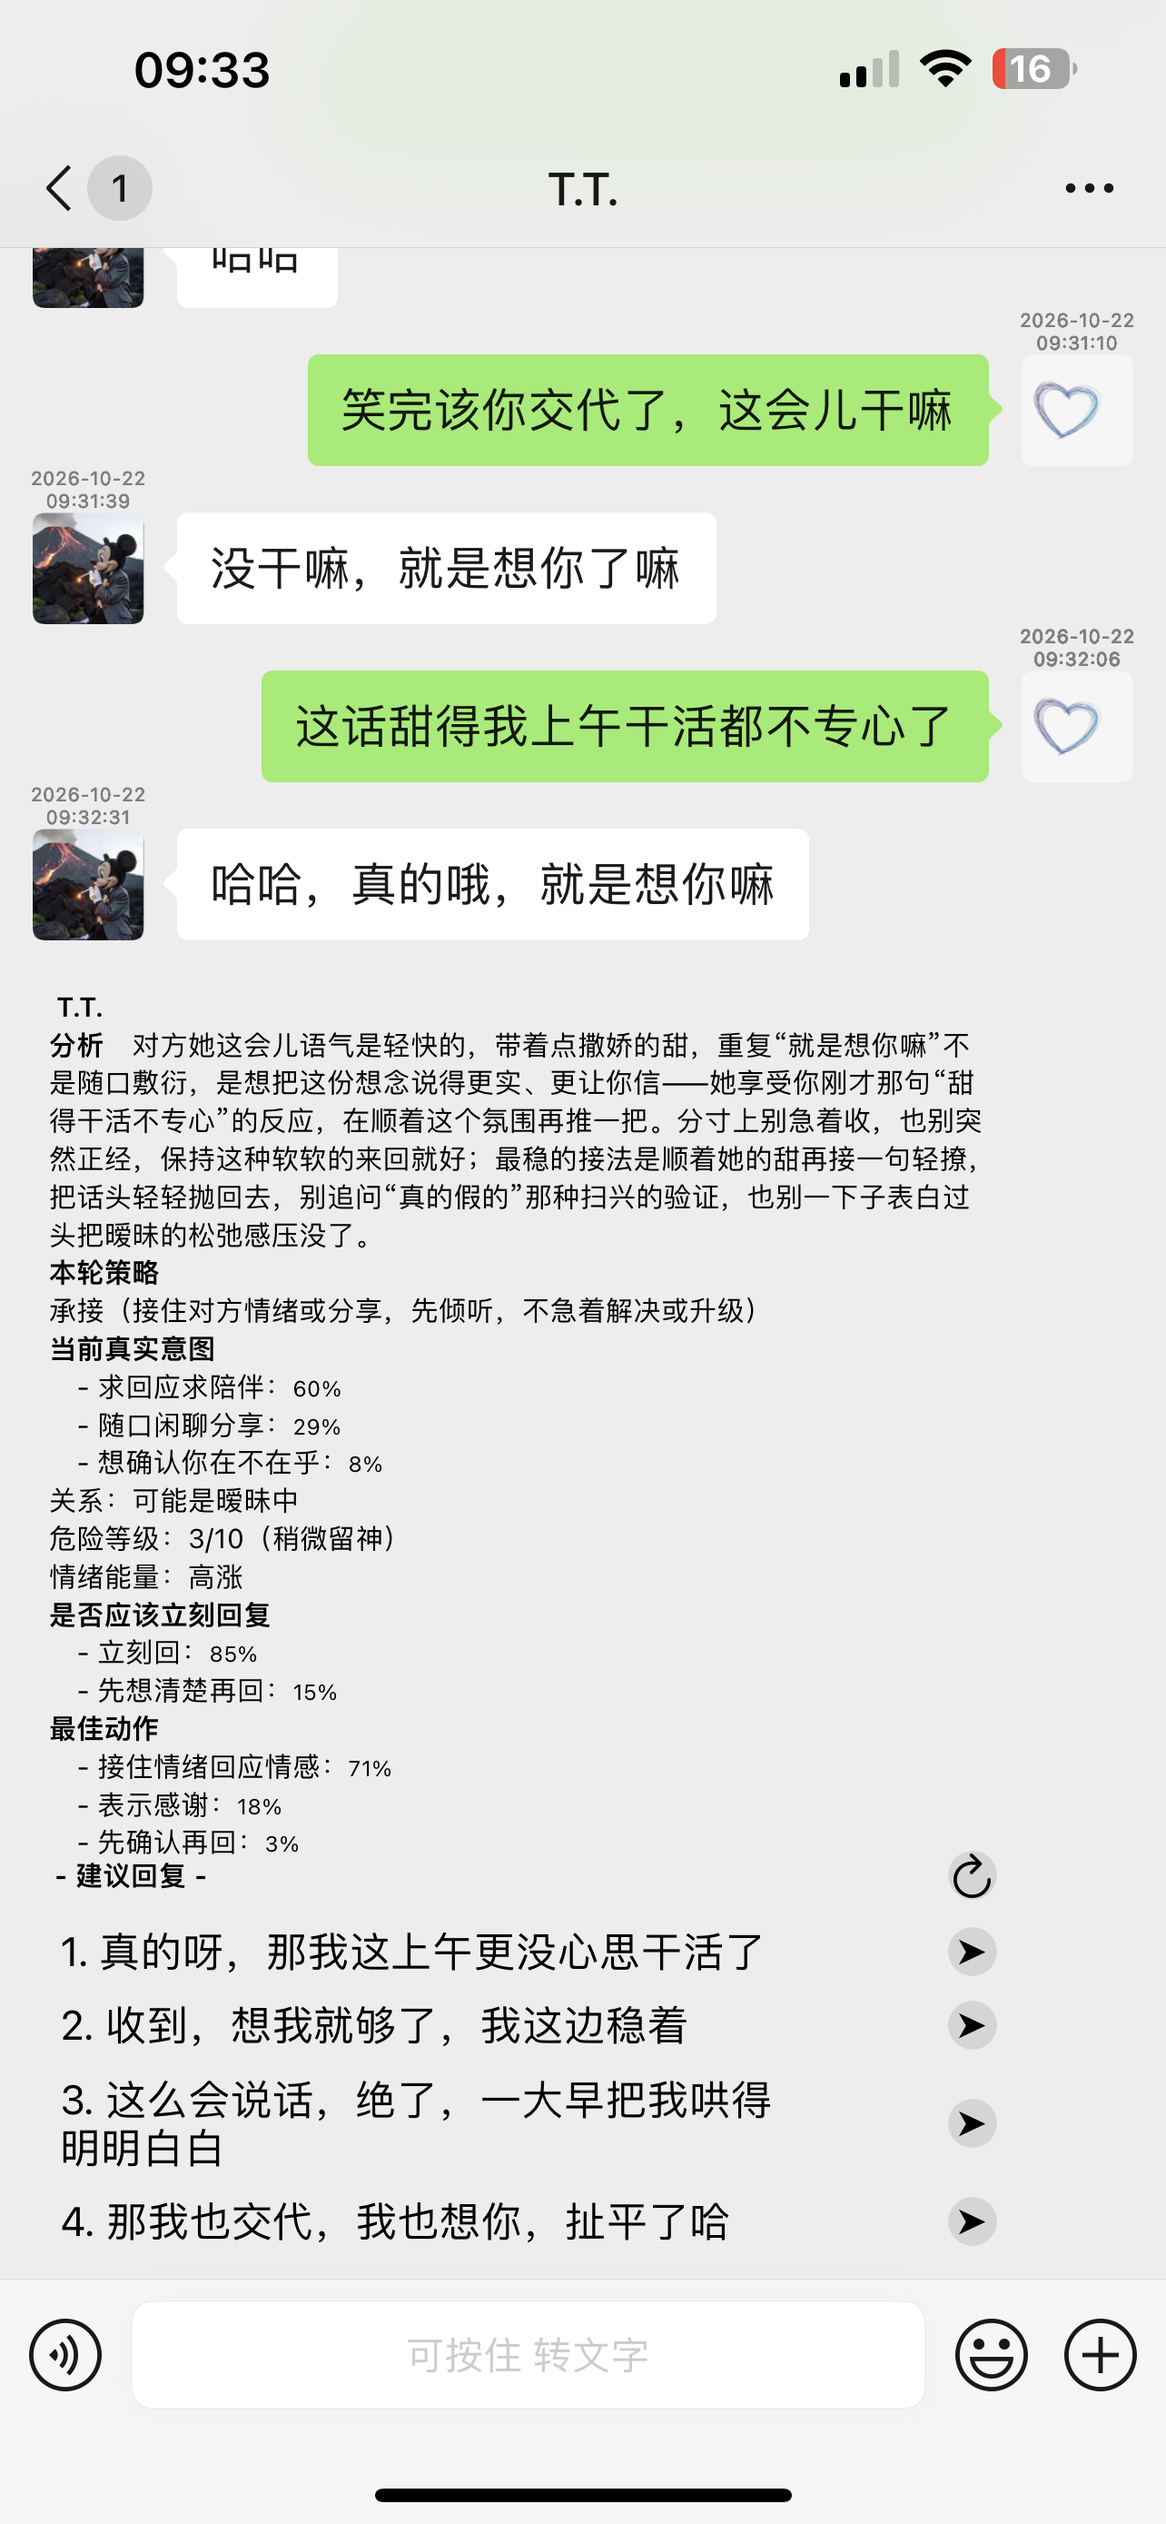
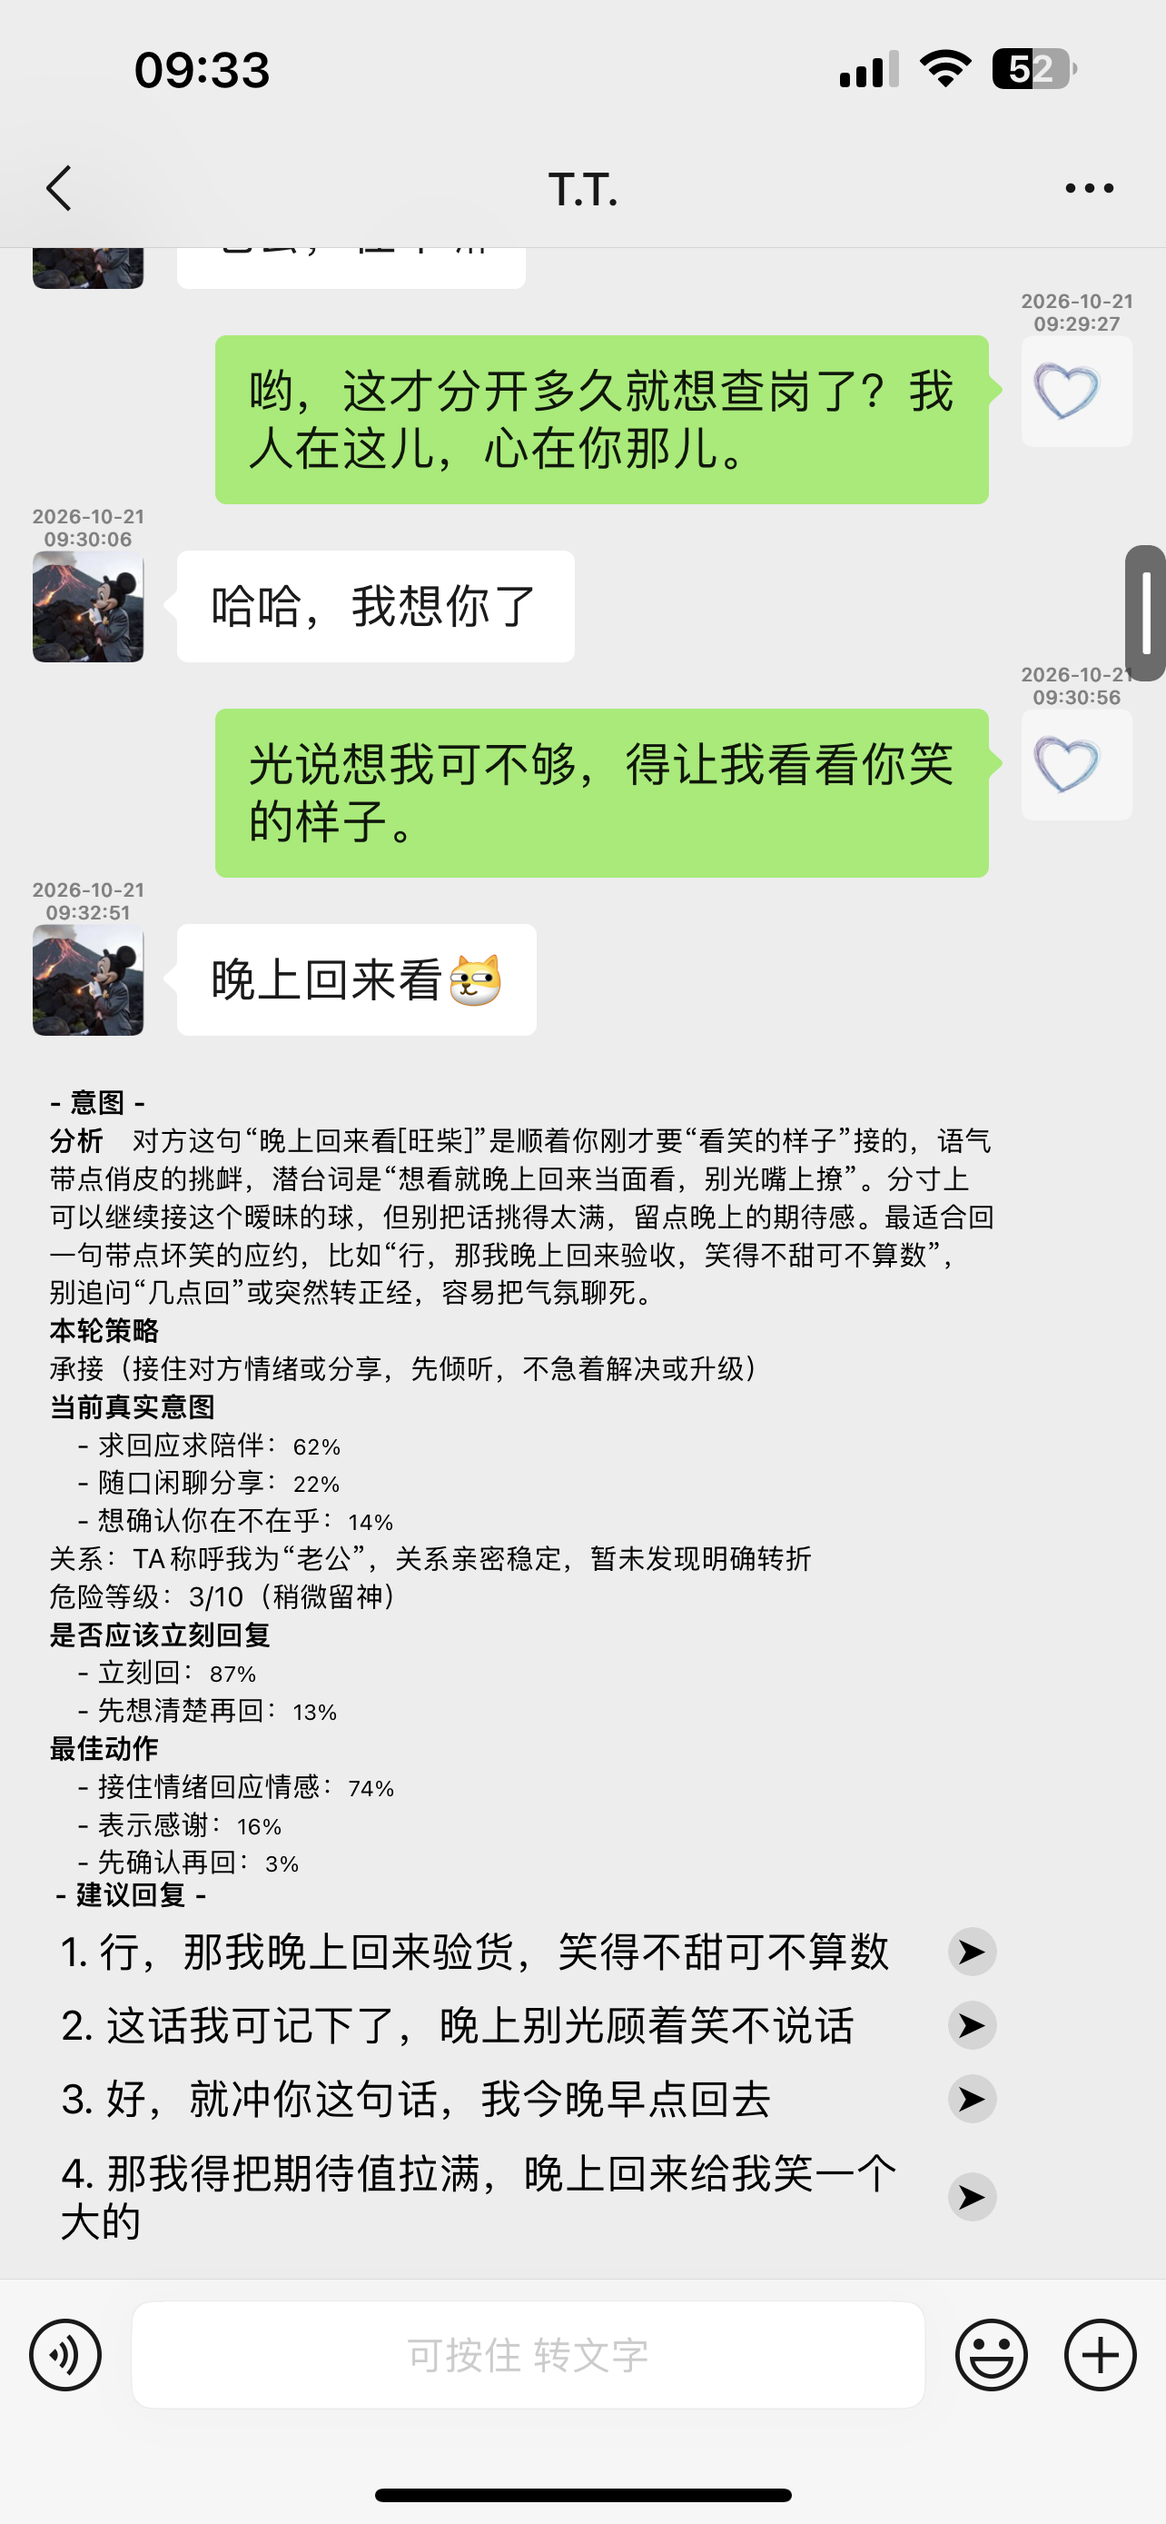
：）

diff --git a/Docs/使用说明.md b/Docs/使用说明.md
@@ -1,0 +1,142 @@
+# Jev-Chat 使用与配置说明
+
+> 一份看懂怎么填、怎么用的操作手册。功能介绍见仓库根目录 [README](../README.md)。
+
+---
+
+## 一、快速上手（三步开始）
+
+1. **装好插件**（deb 装完重启微信），打开入口：**微信 → 我 → 设置 → Jev Chat**（或在系统设置/插件入口打开，取决于「插件入口位置」）。
+2. **填 API**：进「意图判断」和「建议回复」两组，按下面第二、三节填好预设/地址、Key、模型。
+3. **找人发条消息**：对方消息下方会自动出现分析卡片和 4 条建议回复，点 ➤ 直接发送。
+
+---
+
+## 二、意图判断（判断层）怎么填
+
+设置路径：**Jev Chat → 意图判断**（配置项始终显示；「显示分析卡片」开关只控制卡片显隐，不影响下面的配置）。
+
+| 设置项 | 怎么填 |
+| --- | --- |
+| **显示分析卡片** | 只控制卡片显隐：关了卡片不出分析块，但**判断仍在后台跑**（生成层的约束、自动回复的收线保护都要用）；判断层和生成层**都关**才完全不处理。**没配判断层 Key 时走本地规则兜底**（含收线判别），判断层零消耗 |
+| **关联上下文** | 把最近 N 条消息一起给模型参考，建议 **5～10 条**；选「不关联」只看当前这条 |
+| **服务预设** | 三选一：**博查 / 阿里百炼 / 自定义**，见下表 |
+| **服务地址** | 选了博查/百炼会自动填好并**锁定**；只有「自定义」能手动输入 |
+| **Key密钥** | 对应平台的 API Key（`sk-` 开头），**预设锁定状态下也照常可填可改** |
+| **模型** | 同服务地址：预设自动填并锁定，自定义可手填 |
+
+### 服务预设怎么选
+
+| 预设 | 自动填入的地址 | 自动填入的模型 | 你还需要做 |
+| --- | --- | --- | --- |
+| **博查** | `https://jev.bocha.cn/v1/systemone` | `bocha-jev-v1` | 只填 Key |
+| **阿里百炼** | `https://llm-tg7bn69qnisd67ok.cn-beijing.maas.aliyuncs.com/compatible-mode/v1/systemone` | `decision-model-preview` | 只填 Key |
+| **自定义** | 保留当前值，可手动修改 | 同左 | 地址、模型、Key 全部手填 |
+
+- 预设选中后，点「服务地址 / 模型」会提示**预设已锁定**，防止误改；切回「自定义」即可解锁编辑（值保留，改哪个动哪个）。
+- 两个预设都是 SystemOne 专用判断接口，插件自动走对应协议，其他都不用动。
+- 自定义地址的规则：地址里含 `systemone` 走专用判断接口；否则按通用 `chat/completions` 接口处理（地址填到 `/v1` 为止即可）。
+
+---
+
+## 三、建议回复（生成层）怎么填
+
+设置路径：**Jev Chat → 建议回复**（打开「建议消息」开关后才显示以下各项）。
+
+### 1. 基础三项
+
+| 设置项 | 怎么填 |
+| --- | --- |
+| **服务地址** | OpenAI 兼容地址，**填到 `/v1` 为止**，结尾的 `/chat/completions` 插件自动拼。常见示例见下表 |
+| **Key密钥** | 对应平台的 API Key |
+| **模型** | 平台的模型 ID，如 `qwen3.8-max`、`glm-4.6`、`deepseek-v3` 等 |
+
+常见平台地址示例：
+
+| 平台 | 服务地址 |
+| --- | --- |
+| 阿里百炼（专属接入点） | `https://llm-tg7bn69qnisd67ok.cn-beijing.maas.aliyuncs.com/compatible-mode/v1` |
+| 阿里百炼（公共） | `https://dashscope.aliyuncs.com/compatible-mode/v1` |
+| 智谱 GLM | `https://open.bigmodel.cn/api/paas/v4` |
+| SiliconFlow 硅基流动 | `https://api.siliconflow.cn/v1` |
+| OpenAI | `https://api.openai.com/v1` |
+
+### 2. 思考模式关闭（重点：填错会变慢、多花钱）
+
+用带「深度思考」的模型（qwen3 系列、GLM-4.5+、GPT-5、Gemini 2.5 等）时，需要告诉接口**关闭思考**，否则回复慢、token 翻倍。**按你的生成层服务商选**：
+
+| 你用的模型/平台 | 该选的选项 | 实际发送的参数 |
+| --- | --- | --- |
+| 不确定 / 混用 | **自动识别**（默认） | 按服务地址自动挑下面两种之一 |
+| 模型本身不思考（如 deepseek-v3、glm-4-flash） | **不发送** | 不带任何参数 |
+| 阿里百炼 Qwen3、SiliconFlow Qwen3 | **百炼 enable_thinking** | `"enable_thinking": false` |
+| 智谱 GLM-4.5/4.6、豆包思考模型 | **GLM/豆包 thinking** | `"thinking": {"type": "disabled"}` |
+| OpenAI GPT-5 / o 系列 | **OpenAI effort** | `"reasoning_effort": "minimal"` |
+| OpenRouter 网关 | **OpenRouter** | `"reasoning": {"enabled": false}` |
+| Gemini（经兼容网关） | **Gemini budget** | `"thinking_budget": 0` |
+| vLLM 自部署 Qwen3 | **vLLM 自部署** | `"chat_template_kwargs": {"enable_thinking": false}` |
+
+> 该设置只影响生成层（读心、起草、换一批、记忆更新）。判断层预设接口自动处理，无需关心。
+
+### 3. 回复行为
+
+| 设置项 | 说明 |
+| --- | --- |
+| **快捷回复** | 键盘上方常驻建议回复，不展开分析卡片也能直接选 |
+| **话术模式（真实口吻）** | 开=按你自己的说话习惯落笔；关=纯按所选话术人设回 |
+| **话术选择** | 15 种人设可多选：高情商话术、贴吧老哥、拒绝加班、卑微乙方、稳如老狗、已读乱回、鱼塘主、职场黑话、阴阳怪气、情绪价值、夸夸、讨好型人格、狗头军师系列 |
+
+> **自动回复不在设置页**：它按联系人管理，在**记忆档案**里逐个开启（见第五节）。
+
+---
+
+## 四、其他功能开关
+
+设置主页共六个入口：**基础功能 / 意图判断 / 建议回复 / 记忆档案 / 用量统计 / 插件版本**，点进去才是各自的具体设置。
+
+| 设置项 | 位置 | 说明 |
+| --- | --- | --- |
+| **后台运行** | 基础功能 | 后台保活（场景修复 + 静音音频），无悬浮窗 |
+| **消息防撤** | 基础功能 | 对方撤回时提示「已拦截 XX 撤回的消息」 |
+| **微信运动** | 基础功能 | 步数按「总步数」目标全天平滑递增；「瞬间 88888」一键到位 |
+| **记忆档案（开关）** | 记忆档案页 | 总开关，关=暂停读写（已存内容保留） |
+| **查看记忆档案** | 记忆档案页 | 看每个人的相处笔记和自动回复设置 |
+| **清除记忆档案** | 记忆档案页 | **全部**删除（单个删除在档案列表里操作） |
+| **判断层/生成层用量** | 用量统计页 | 今日+累计 token 消耗，点开可清零 |
+| **插件版本** | 主页 | 显示构建号，点按弹说明；与 deb 文件名对得上即装对 |
+
+---
+
+## 五、记忆档案日常操作
+
+- **自动回复（按联系人）**：档案**列表页每一行右侧**，「自动回复」开关和「第N条 ▸」并排放在一起——**开关打开的联系人收到消息才自动回复**，点「第N条 ▸」选自动发第几条（1～4，开了自动回复后显示为主题色）。不开的人永远只出建议、不自动发。
+- **自动成长**：每聊约 2 分钟，模型自动总结更新九大板块（这是TA / 我们之间 / 长期话题 / 近期动态 / 动态小结 / TA最近 / 待办承诺 / 画像小结 / 我的习惯）。
+- **称呼与性别自动同步**：标题优先显示微信**备注**，没备注显示**昵称**；性别跟随微信资料，对方设为未知就不显示、也不传给模型。
+- **手动编辑**：档案详情页右上「编辑」→ 改文字 →「完成」保存。没写到的板块保留原值，不会误清空。
+- **删除一个人**：档案**列表**里**左滑**该联系人 → 删除（弹确认）。删除后该联系人再发消息会**重新建档**（称呼/性别重新自动识别，旧笔记不恢复；自动回复开关也随之重置为关）。返回后列表和「N 位联系人」计数自动刷新。
+- **列表行只显示名字**：优先备注/昵称；没名字的联系人才显示 wxid 认人，关系、更新时间等都不显示。
+
+---
+
+## 六、常见问题
+
+**Q：分析卡片标题显示的是什么名字？**
+微信备注优先，其次昵称；都没有就显示「- 意图 -」。
+
+**Q：收到消息到出卡片很慢？**
+基本是思考模式没关对。去「建议回复 → 思考模式关闭」按上表选对选项；判断层慢就检查预设/Key 是否填对。
+
+**Q：建议回复不满意？**
+点 🔄 换一批（先出备用库存，用完自动重新生成）；或调整话术选择/关联上下文条数。
+
+**Q：Key 会泄露吗？**
+Key 只存在你手机本机，请求直连你填的服务地址，插件不经过任何第三方服务器。
+
+**Q：单删和全清的区别？**
+单删只删那一个人的档案（列表左滑）；「清除记忆档案」是所有人一起删。两者都不可恢复。
+
+**Q：怎么确认装的是刚编译的新包？**
+版本号带构建时间戳（如 `1.1.1-20261022.1259`）：设置页标题、主页「插件版本」行和记忆档案列表底部显示的就是当前运行的时间戳，和 deb 文件名里的对得上就是装对了；对不上就是包装错了/没重启微信。
+
+**Q：开了自动回复为什么没有自动发？**
+按顺序检查：①「建议消息」总开关是否开着；②这个联系人的开关是否在记忆档案列表里打开；③对方发的是不是收尾消息（晚安/睡了/去忙等）或纯应付消息（哈哈/嗯）——这两种故意不回，像真人；④分析期间你又手动回复过或来了新消息——旧结果作废，不回。

diff --git a/README.md b/README.md
@@ -10,7 +10,7 @@
 
 同时为每位联系人维护一份会成长的**记忆档案**，让 AI 越聊越懂 TA。
 
-[![Version](https://img.shields.io/badge/version-1.1.0-blue)]()
+[![Version](https://img.shields.io/badge/version-1.1.1-blue)]()
 [![Platform](https://img.shields.io/badge/platform-iOS%20·%20arm64-lightgrey)]()
 [![WeChat](https://img.shields.io/badge/微信-com.tencent.xin-07C160?logo=wechat)]()
 [![Built with Theos](https://img.shields.io/badge/built%20with-Theos-9cf)]()
@@ -53,7 +53,7 @@
 | **➤ 一键发送** | 点纸飞机直接以你的口吻发出 |
 | **🔄 换一批** | 先吐备用库存，库存空了自动重新生成 |
 | **快捷回复** | 在键盘上方常驻建议回复，不用展开分析卡片 |
-| **自动回复** | 可指定自动发送第 N 条，人不在也能稳稳接住 |
+| **自动回复（按联系人）** | 在记忆档案里逐个联系人开启：列表行右侧开关 + 选第 N 条；收线/纯应付消息自动不回，判断层不可用时本地关键词兜底 |
 | **话术模式** | 15 种人设可多选：高情商话术、贴吧老哥、拒绝加班、卑微乙方、稳如老狗、已读乱回、鱼塘主、职场黑话、阴阳怪气、情绪价值、夸夸、讨好型人格、狗头军师系列…… |
 | **真实口吻** | 开启后模仿「我的说话习惯」落笔——话术只定方向，听起来还是你自己 |
 
@@ -76,7 +76,9 @@
 - **称呼自动识别**：优先取微信备注，无备注取昵称，分析卡片标题直接显示；
 - **性别自动同步**：读取微信资料（对方改了资料会实时跟随），未知则不传给大模型；
 - **增量更新**：每轮对话后节流触发大模型总结，只改变化了的部分，防止误清空；
-- **可手动编辑**：相处笔记支持逐条修改，改完即生效。
+- **可手动编辑**：相处笔记支持逐条修改，改完即生效；
+- **按联系人自动回复**：档案列表每行右侧开关 + 「第N条」选择，开了的人收到消息自动回；
+- **单删 / 全清**：列表左滑删一个人（防误清空语义），设置里一键清全部。
 
 ### 🛡 实用增强
 
@@ -88,11 +90,14 @@
 
 ### ⚙ 设置中心
 
-入口位置可选：**微信设置页内** / **独立插件入口** / **两者都要**。
+入口位置可选：**微信设置页内** / **独立插件入口** / **两者都要**。主页六个入口：**基础功能 / 意图判断 / 建议回复 / 记忆档案 / 用量统计 / 插件版本**（版本号带构建时间戳，装没装对一眼可见）。
 
+- **判断层服务预设**：博查 / 阿里百炼 一键填入 SystemOne 专用接入点（只填 Key），或自定义
+- **生成层思考模式关闭**：按服务商选关思考参数（百炼 / GLM / 豆包 / OpenAI / OpenRouter / Gemini / vLLM / 自动识别）
+- 「显示分析卡片」开关只管卡片显隐：关了卡片判断仍在后台跑，没配判断层 Key 时本地规则兜底
 - 双通道 API 独立配置：判断层、生成层各自的**服务地址 / Key / 模型 / 关联上下文条数**
 - 用量统计：判断层 / 生成层分开的今日与累计 token 用量，可一键清零
-- 记忆档案管理：查看联系人列表、逐个编辑、一键清除
+- 记忆档案管理：开关、查看（含按联系人自动回复设置）、一键清除
 
 ---
 
@@ -134,6 +139,8 @@ flowchart LR
 | 安装 | Sileo / Zebra 安装 `.deb`，装完重启微信 |
 
 安装后在 **微信 → 我 → 设置** 里找到「Jev Chat」入口（或打开独立插件入口），填入你的 API 地址、Key 与模型即可开始。
+
+> 📖 每一项怎么填、怎么用，见 **[使用与配置说明](Docs/使用说明.md)**：判断层服务预设、生成层思考模式关闭对照表、记忆档案操作、常见问题。
 
 ## 🛠 从源码编译
 
@@ -186,11 +193,12 @@ Jev-Chat-for-WeChat
 
 ## 🗓 近期更新亮点
 
-- 记忆档案新增「动态小结」：近期动态由大模型自动总结，注入提示词更快更准
-- 分析卡片标题显示联系人称呼（备注优先）；性别随微信资料实时同步、未知不传模型
-- 建议回复「换一批」支持备用库存；刷新按钮加大间距，减少误触
-- 长期话题自动累计次数；所有档案时间自动带上星期几
-- 移除保活悬浮窗，保活静默化，零视觉打扰
+- 设置主页重排为六个入口（基础功能 / 意图判断 / 建议回复 / 记忆档案 / 用量统计 / 插件版本），版本号带构建时间戳
+- 判断层服务预设（博查 / 阿里百炼 SystemOne 接入点）；生成层「思考模式关闭」按服务商八选一
+- 自动回复改为按联系人：记忆档案列表行开关 + 第 N 条；判断层不可用时收线关键词本地兜底
+- 「显示分析卡片」开关只管卡片：关了后台照常判断，没配 Key 走本地规则，判断层零消耗
+- 记忆档案支持左滑单删；删除后列表与计数即时刷新
+- 422 自愈：服务不认可选参数时自动降级重发；深浅模式切换页面配色即时跟随
 
 <details>
 <summary><b>查看完整更新日志</b></summary>
@@ -204,7 +212,7 @@ Jev-Chat-for-WeChat
 ## ⚠ 免责声明
 
 - 本项目**仅供学习与技术研究**，请勿用于任何违反法律或平台规则的场景；
-- 需自备大模型 API（模型如何配置见issues），所有请求直接从设备发往你配置的服务地址，本项目不收集任何数据；
+- 需自备大模型 API（OpenAI 兼容接口），所有请求直接从设备发往你配置的服务地址，本项目不收集任何数据；
 - AI 生成的内容可能不恰当，发送前请自行判断；与人相处，真诚永远是最好的话术。
 
 ---
